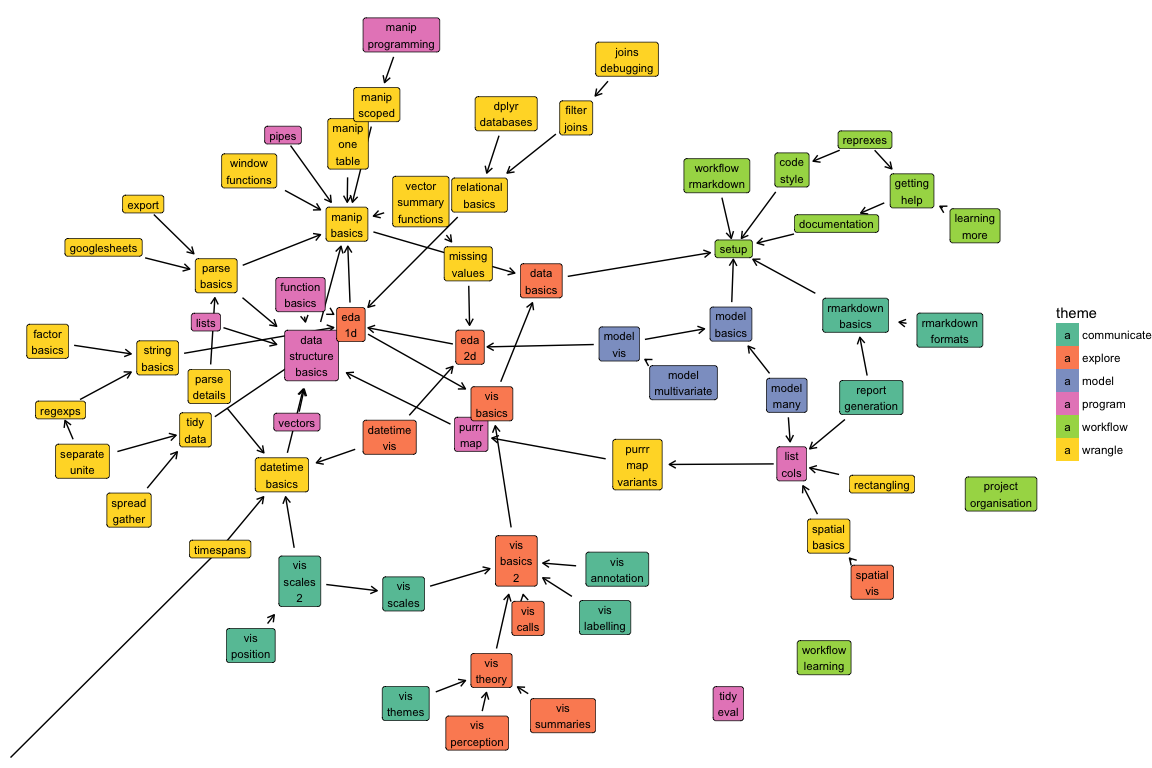
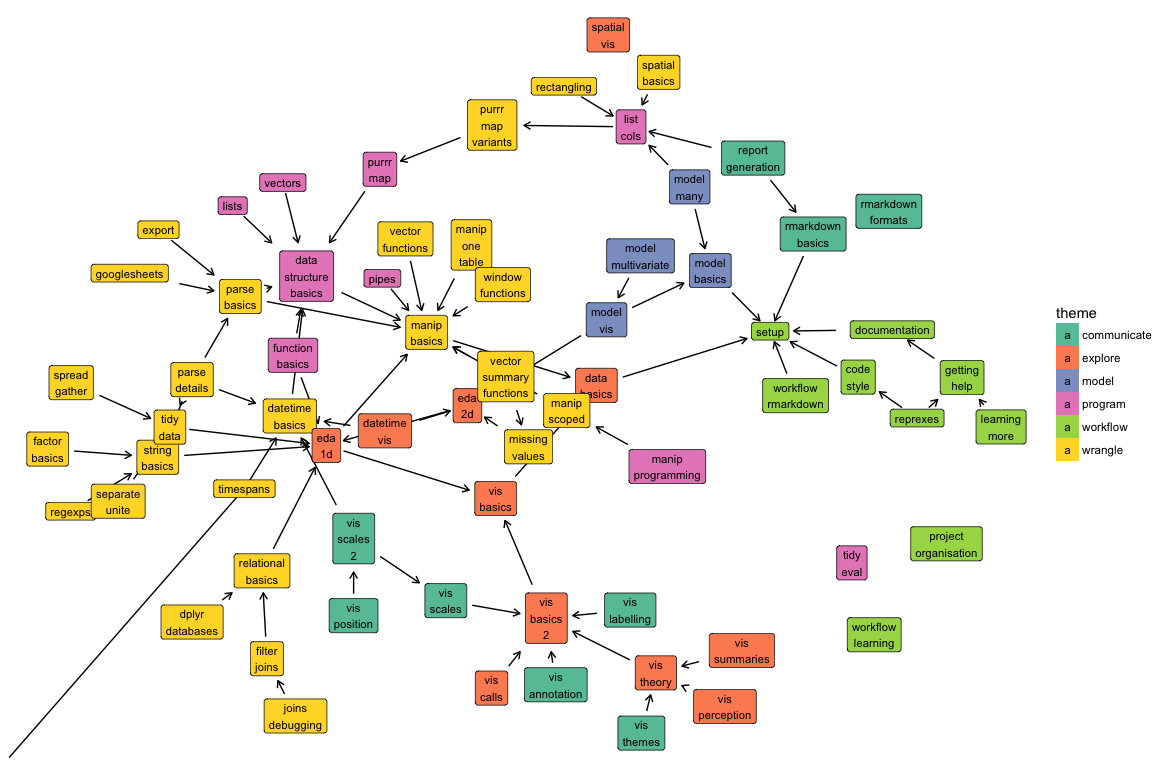
Implement vector functions

diff --git a/docs/vector-functions.md b/docs/vector-functions.md
@@ -1,0 +1,182 @@
+---
+title: Vector functions
+---
+
+<!-- Generated automatically from vector-functions.yml. Do not edit by hand -->
+
+# Vector functions <small class='wrangle'>[wrangle]</small>
+<small>(Builds on: [Manipulation basics](manip-basics.md))</small>
+
+
+## Vector functions
+
+It’s often easy to create a scalar function, that is a function, that
+takes length 1 input, and produces a length one output. You can always
+turn this into a vectorised function by figuring out the appropriate
+purrr `map_` function. It’s also easy to accidentally use a vectorised
+function as if it’s a scalar function, doing making life harder for
+yourself than it needs to be. This reading illustrates each problem with
+an example.
+
+## Letter grades
+
+For example, might write the following function that converts a numeric
+grade to a letter grade:
+
+``` r
+grade <- function(x) {
+  if (x >= 90) {
+    "A"
+  } else if (x >= 80) {
+    "B"
+  } else if (x >= 70) {
+    "C"
+  } else if (x >= 60) {
+    "D"
+  } else {
+    "F"
+  }
+}
+
+grade(92)
+#> [1] "A"
+grade(76)
+#> [1] "C"
+grade(60)
+#> [1] "D"
+```
+
+But if you attempt to an entire column of a data frame, you have a
+problem:
+
+``` r
+df <- tibble(score = sample(100, 10, replace = TRUE))
+df %>% mutate(grade = grade(score))
+#> Warning in if (x >= 90) {: the condition has length > 1 and only the first
+#> element will be used
+#> # A tibble: 10 x 2
+#>   score grade
+#>   <int> <chr>
+#> 1    93 A    
+#> 2    82 A    
+#> 3    86 A    
+#> 4     9 A    
+#> 5    80 A    
+#> # ... with 5 more rows
+```
+
+`if` can only work with a single element at a time. You can always work
+around this problem using one of the `map_` functions from purrr. In
+this case, `grade()` returns a character vector so we’d use `map_chr()`:
+
+``` r
+df %>% mutate(grade = map_chr(score, grade))
+#> # A tibble: 10 x 2
+#>   score grade
+#>   <int> <chr>
+#> 1    93 A    
+#> 2    82 B    
+#> 3    86 B    
+#> 4     9 F    
+#> 5    80 B    
+#> # ... with 5 more rows
+```
+
+However, there is often an alternative, more elegant approach by relying
+on an exising vector function. For example, you can always rewrite a set
+of nested if-else statements to use `case_when()`:
+
+``` r
+grade2 <- function(x) {
+  case_when(
+    x > 90 ~ "A",
+    x > 80 ~ "B",
+    x > 70 ~ "C",
+    x > 60 ~ "D",
+    TRUE ~   "F"
+  )
+}
+grade(seq(0, 100, by = 10))
+#> Warning in if (x >= 90) {: the condition has length > 1 and only the first
+#> element will be used
+#> Warning in if (x >= 80) {: the condition has length > 1 and only the first
+#> element will be used
+#> Warning in if (x >= 70) {: the condition has length > 1 and only the first
+#> element will be used
+#> Warning in if (x >= 60) {: the condition has length > 1 and only the first
+#> element will be used
+#> [1] "F"
+
+df %>% mutate(grade = grade2(score))
+#> # A tibble: 10 x 2
+#>   score grade
+#>   <int> <chr>
+#> 1    93 A    
+#> 2    82 B    
+#> 3    86 B    
+#> 4     9 F    
+#> 5    80 C    
+#> # ... with 5 more rows
+```
+
+And for this particular case, there’s an even more targetted function
+from base R: `cut()`. Its job is to divided a numeric range into named
+intervals. You give it a vector of breaks, and a vector of labels, and
+it produces a factor for you:
+
+``` r
+grade3 <- function(x) {
+  cut(x, 
+    breaks = c(-Inf, 60, 70, 80, 90, Inf), 
+    labels = c("F", "D", "C", "B", "A")
+  )
+}
+grade3(seq(0, 100, by = 10))
+#>  [1] F F F F F F F D C B A
+#> Levels: F D C B A
+```
+
+In general, there’s no easy way to find out that there’s an existing
+function that will make your life much easier. The best technique is to
+continually expand your knowledge of R by reading widely; a good place
+to start are the weekly highlights on <http://rweekly.org/>.
+
+## Matching many patterns
+
+So far when you’ve used stringr, we’ve always used a single `pattern`.
+But imagine you have a new challenge: you have a single string and you
+want see which of a possible set of patterns it matches:
+
+``` r
+private <- tribble(
+  ~ name,  ~ pattern,
+  "ssn",   "\\d{3}-\\d{2}-\\d{4}",
+  "email", "[a-z]+@[a-z]+\\.[a-z]{2,4}",
+  "phone", "\\d{3}[- ]?\\d{3}[- ]?\\d{4}"
+)
+
+string <- "My social security number is 231-57-7340 and my phone number is 712-458-2189"
+```
+
+You might be tempted to use `map_lgl()`:
+
+``` r
+match <- map_lgl(private$pattern, ~ str_detect(string, pattern = .x))
+private$name[match]
+#> [1] "ssn"   "phone"
+```
+
+But if you carefully read the documentation for `str_detect()` you’ll
+discover that this is unnecessary because `str_detect()` is vectorised
+oven `pattern`. That means you don’t need `map_lgl()`\!
+
+``` r
+private$name[str_detect(string, private$pattern)]
+#> [1] "ssn"   "phone"
+```
+
+It’s sometimes hard to tell from the documentation whether or not an
+argument is vectorised. If reading the docs doesn’t help, just try it
+with a vector; if it works you’ll have learned something new and saved
+yourself a little typing.
+

diff --git a/docs/manip-basics.md b/docs/manip-basics.md
@@ -6,7 +6,7 @@ title: Manipulation basics
 
 # Manipulation basics <small class='wrangle'>[wrangle]</small>
 <small>(Builds on: [Data basics](data-basics.md))</small>  
-<small>(Leads to: [Data structure basics](data-structure-basics.md), [Exploratory data analysis (1D)](eda-1d.md), [Other single table verbs](manip-one-table.md), [Scoped verbs](manip-scoped.md), [Parsing basics](parse-basics.md), [Pipes](pipes.md), [Vector and summary functions](vector-summary-functions.md), [Window functions](window-functions.md))</small>
+<small>(Leads to: [Data structure basics](data-structure-basics.md), [Exploratory data analysis (1D)](eda-1d.md), [Other single table verbs](manip-one-table.md), [Scoped verbs](manip-scoped.md), [Parsing basics](parse-basics.md), [Pipes](pipes.md), [Vector functions](vector-functions.md), [Vector and summary functions](vector-summary-functions.md), [Window functions](window-functions.md))</small>
 
 
 ``` r

diff --git a/docs/upcoming.md b/docs/upcoming.md
@@ -342,6 +342,12 @@ title: Theme index
   <td colspan="4"><a class="wrangle" href="spatial-basics.html">Spatial basics</a></td>
   <td colspan="4"></td>
 </tr>
+<tr>
+<td></td>
+  <td colspan="1"></td>
+  <td colspan="4"><a class="wrangle" href="vector-functions.html">Vector functions</a></td>
+  <td colspan="4"></td>
+</tr>
 </tbody>
 <tbody>
 <tr>
